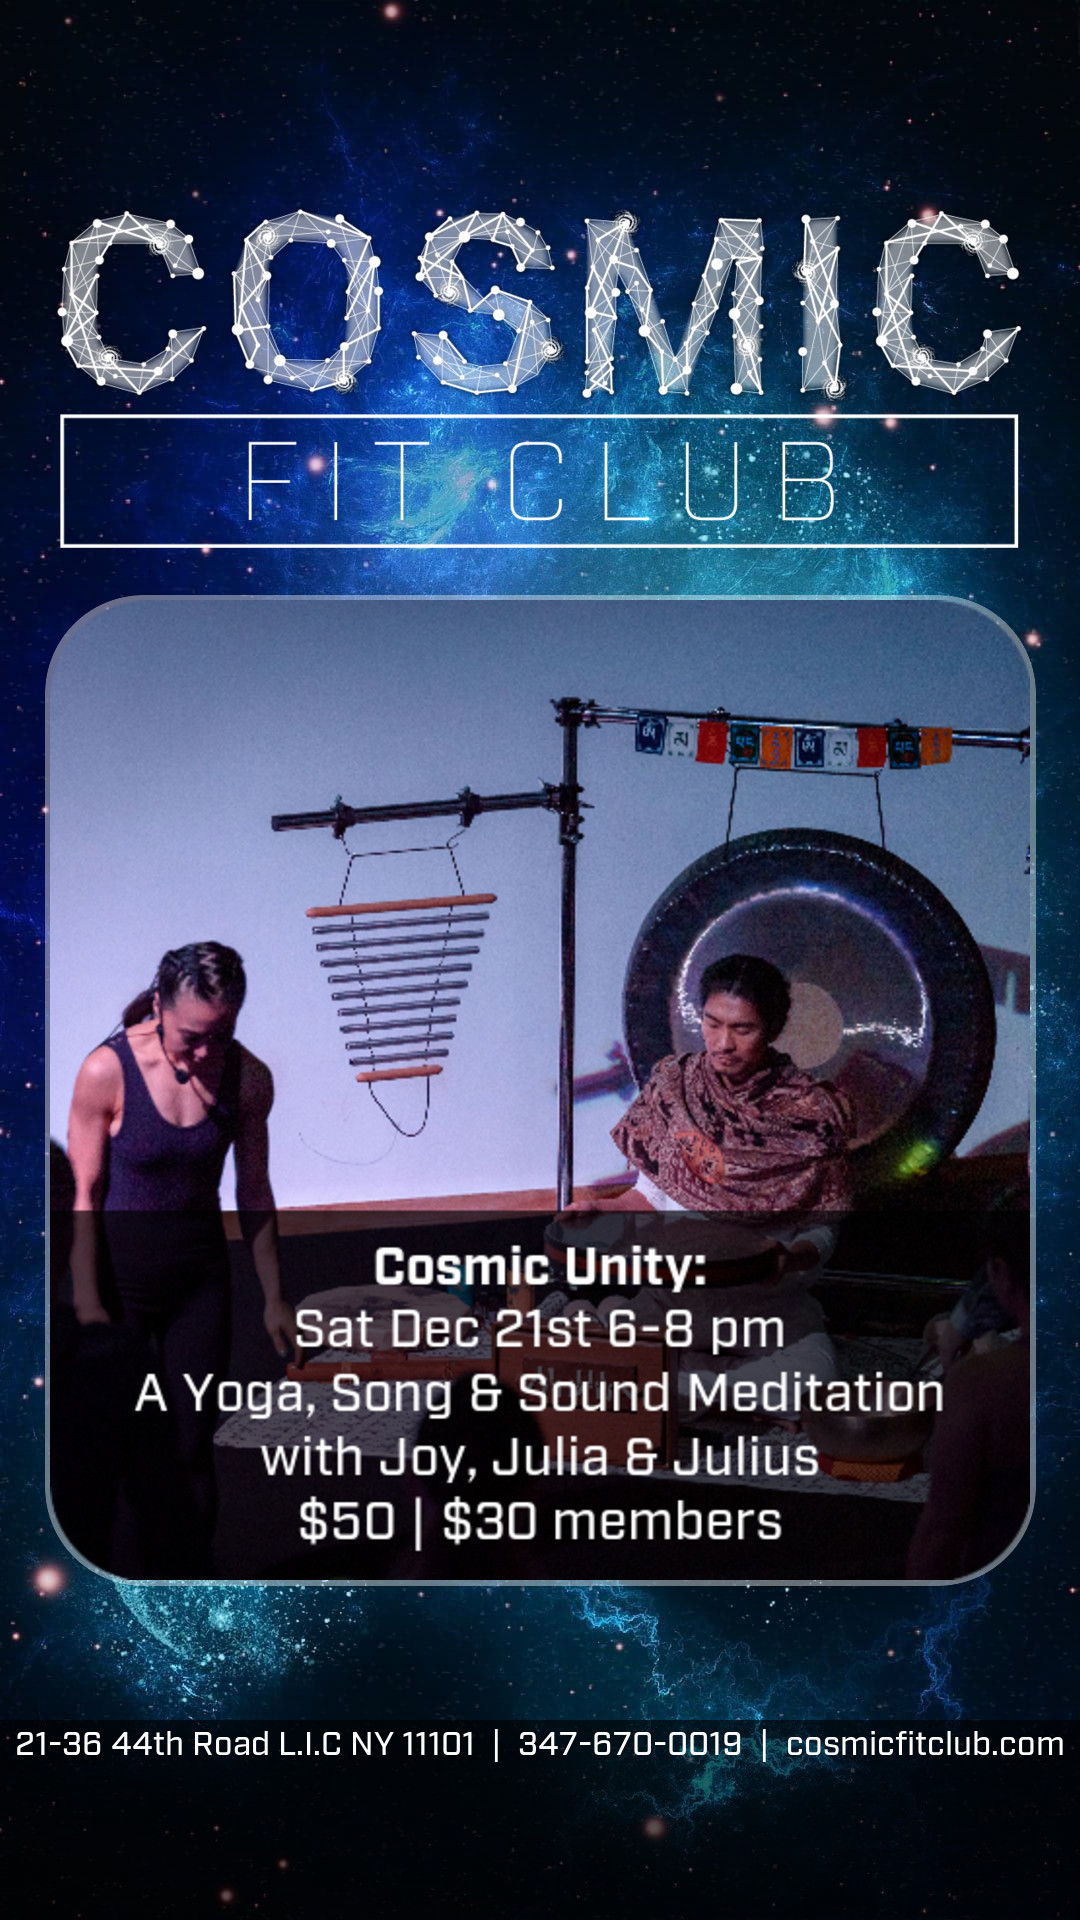
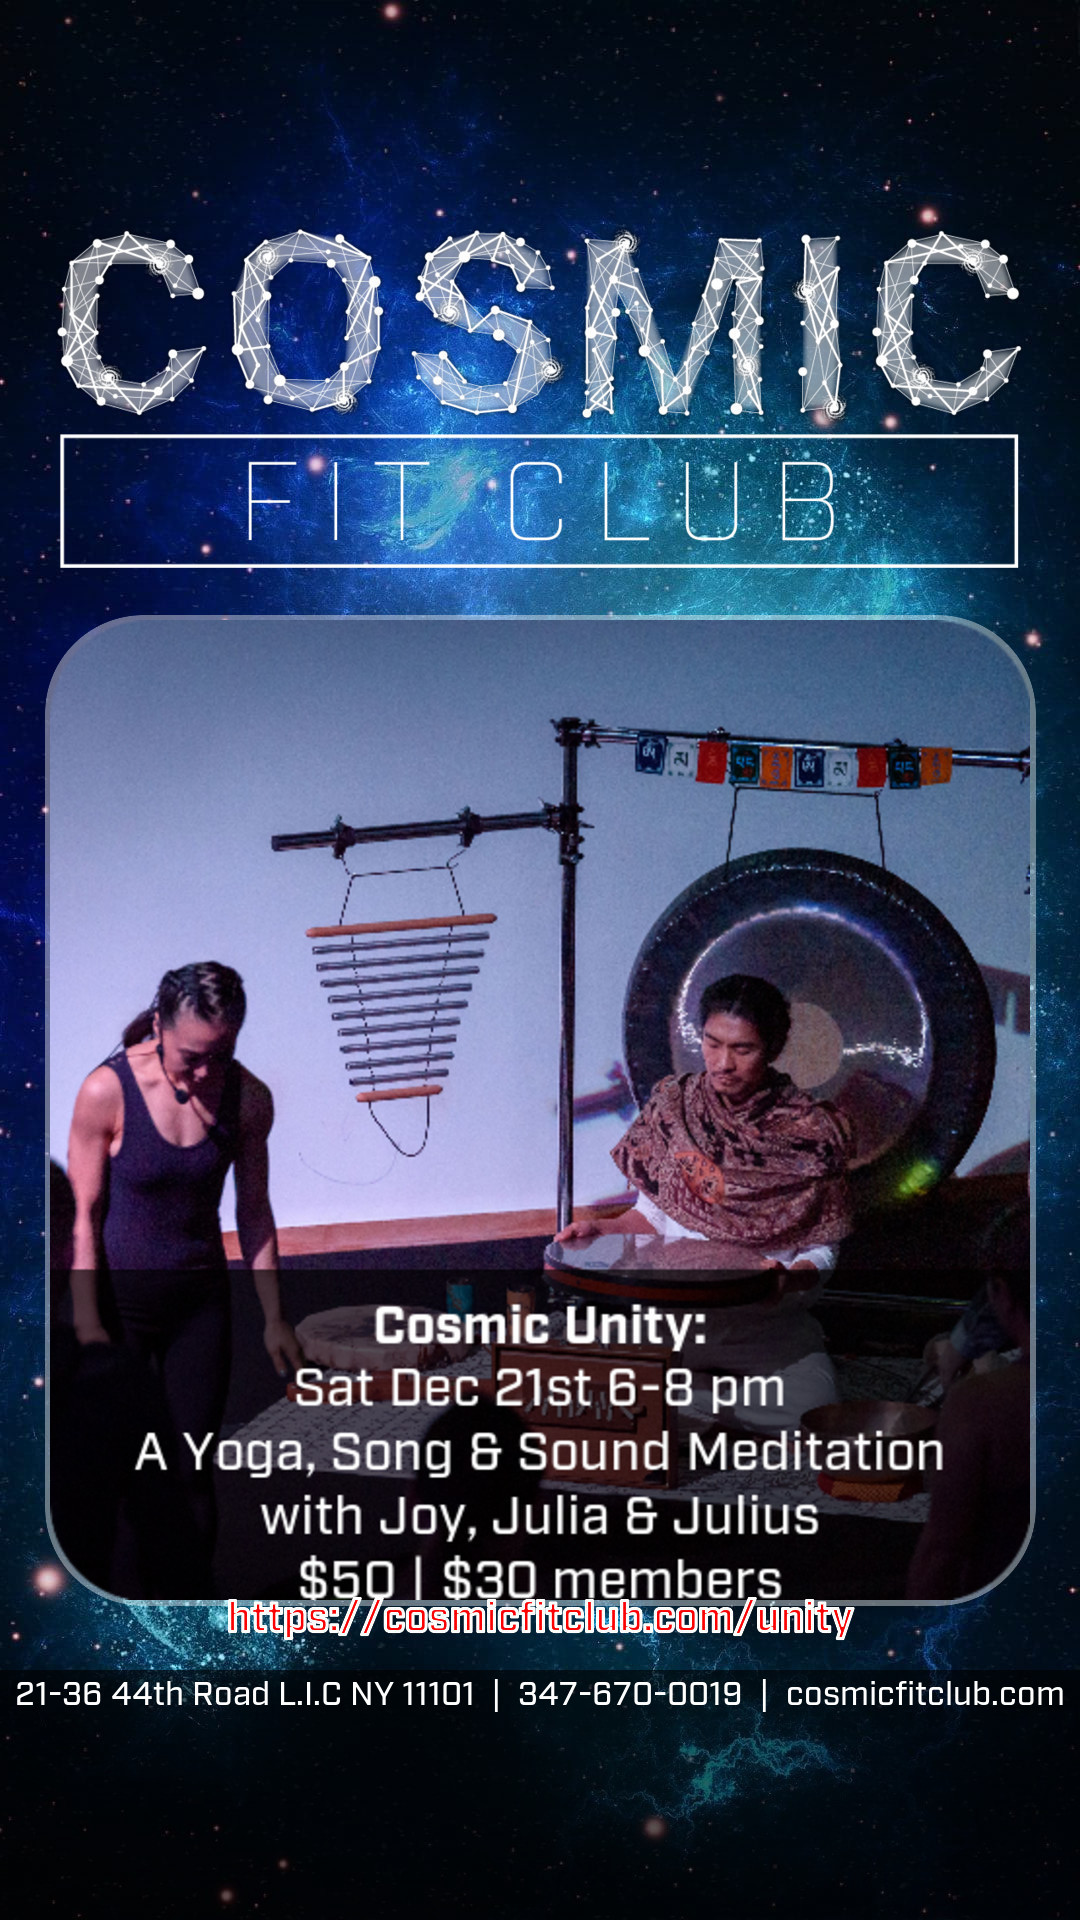
short_urls

Changed region(s): [[0.0, 0.0938, 0.9778, 0.9375], [0.0306, 0.0938, 0.1833, 0.2188]]

diff --git a/printable/InstagramStory.rb b/printable/InstagramStory.rb
@@ -23,13 +23,12 @@ module InstagramStory
     @@bubble = MiniMagick::Image.open @@event.image[:original].url
     @@bubble.to_bubble(lines)
 
-    @@image.draw_logo(50,250,980,nil)
+    @@image.draw_logo(50,220,980,nil)
 
-    @@image.bubble_shadow(980,980,50,650,5)
-    @@image.overlay(@@bubble,980,980,50,650)
+    @@image.bubble_shadow(980,980,50,620,5)
+    @@image.overlay(@@bubble,980,980,50,620)
 
-    @@image.draw_highlight_text("https://cosmicfitclub.com/unity",pointsize,x,y,gravity)
-    @@image.footer_lines(["https://cosmicfitclub.com/"])
+    @@image.draw_highlight_text("https://cosmicfitclub.com/unity",10,0,280,"south")
 
     #box_height = ( lines.count * @@lineheight ) + @@lineheight
     #box_start = 2550 - box_height

diff --git a/site/CFC.rb b/site/CFC.rb
@@ -62,6 +62,8 @@ class CFC < Sinatra::Base
   get( '/robots.txt') { "User-agent: * \r\nDisallow:" }
 
   get( '/:tag' ) do
+    p params[:tag]
+    p ShortUrl.where(:short_path => params[:tag])
     url = ShortUrl.where(:short_path => params[:tag])[0] or pass
     redirect url.long_path
   end
